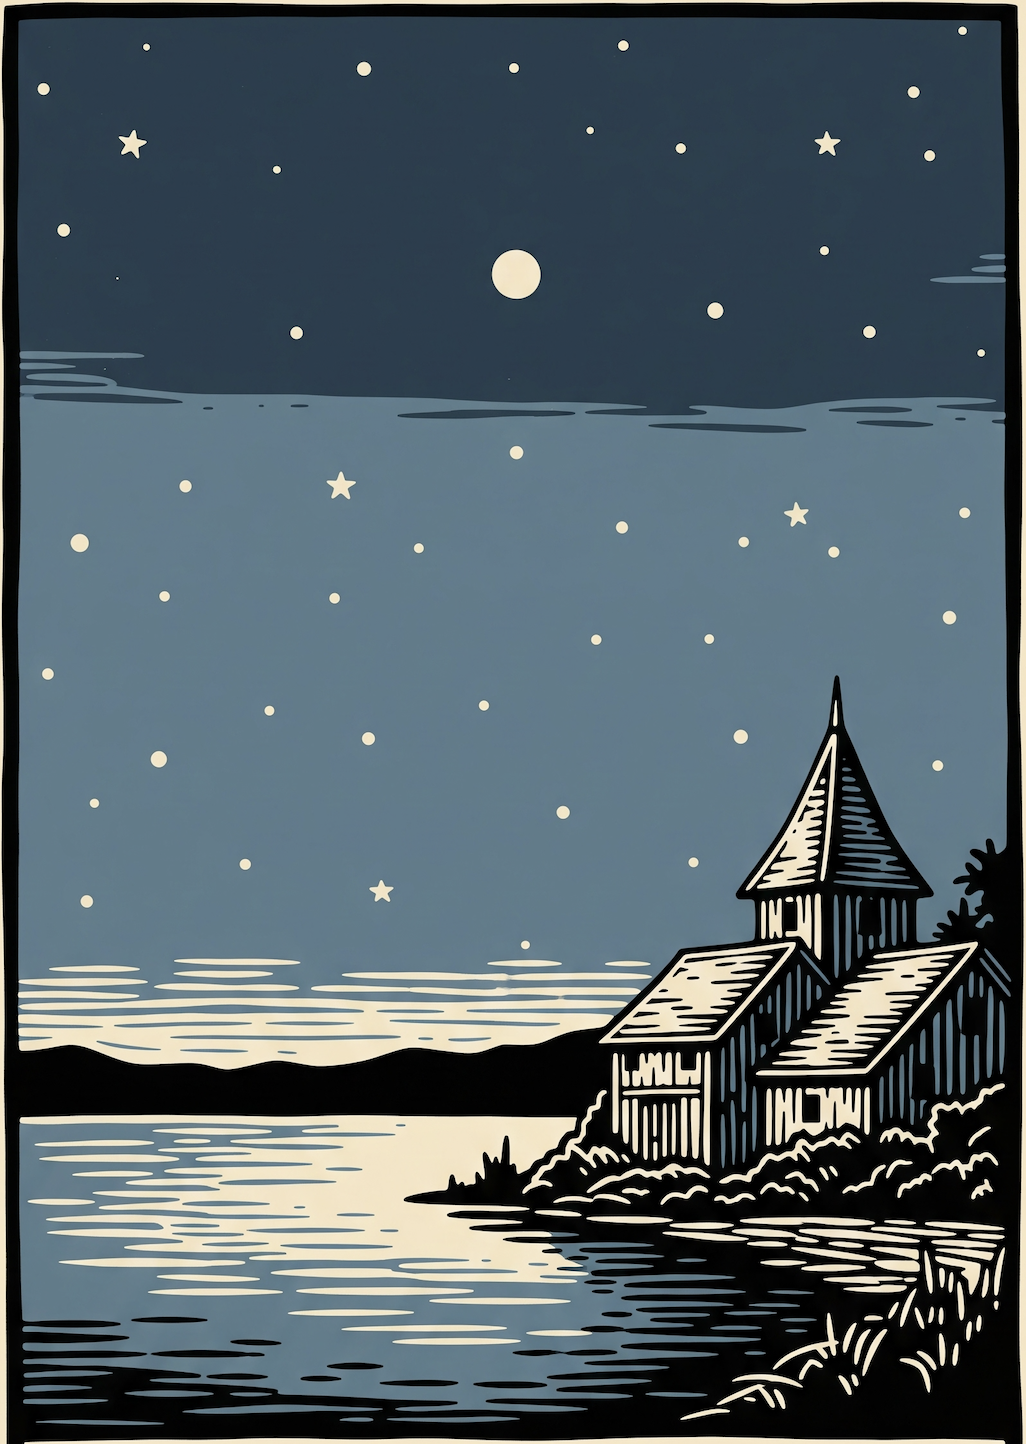
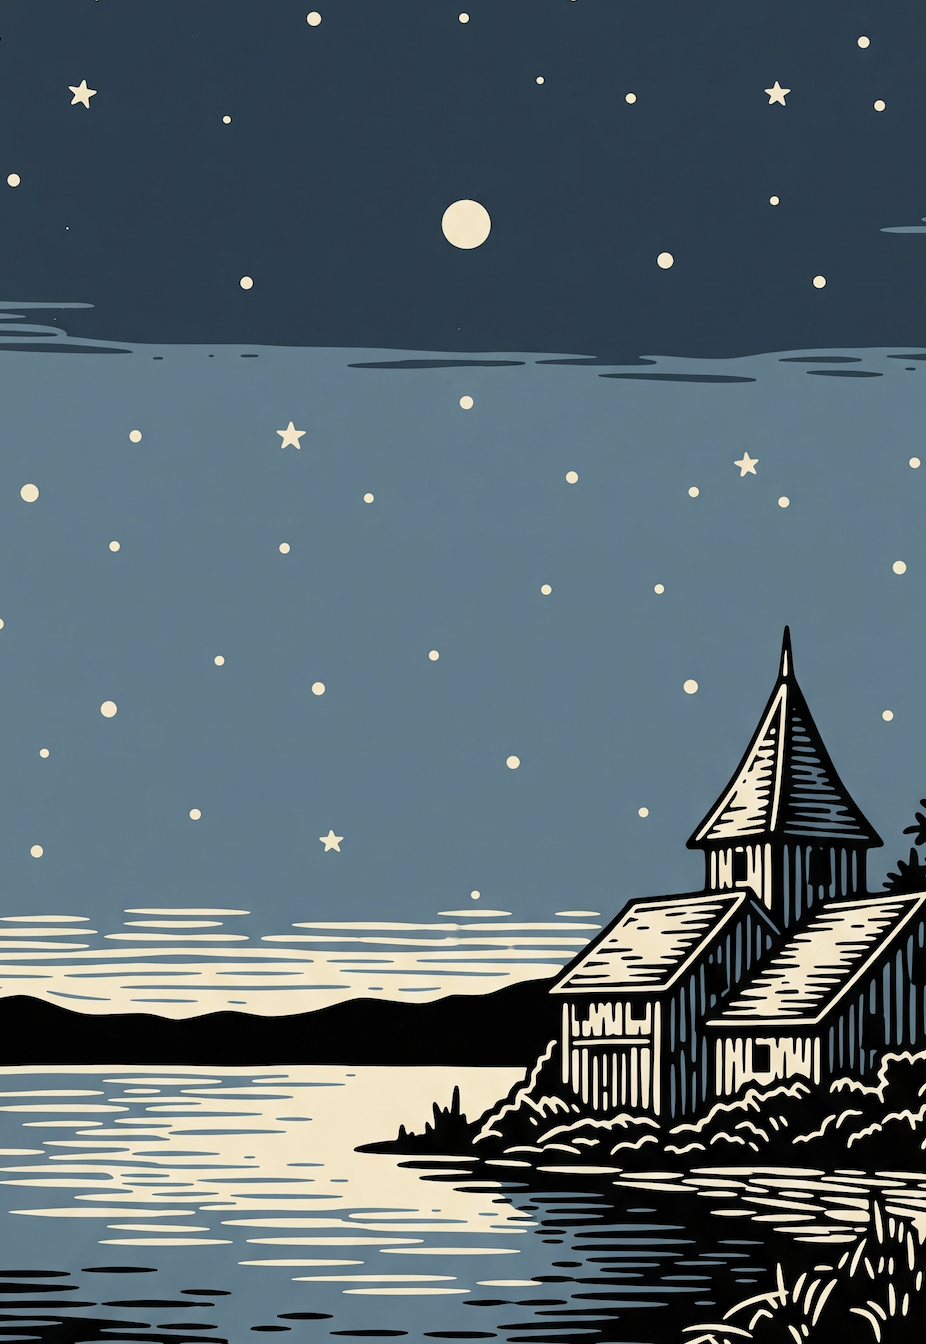
fix: new-moonとblood-moonの最終トリミング
- new-moon.png: 合計50px削除（30px + 20px）
- blood-moon.jpg: 合計45px削除（20px + 25px）

全17枚のタロットカード画像の余白削除を完全に完了

diff --git a/trim_final_two.py b/trim_final_two.py
@@ -1,0 +1,61 @@
+#!/usr/bin/env python3
+"""
+new-moonとblood-moonの最終トリミング
+"""
+
+from PIL import Image
+import os
+
+def trim_image(image_path, trim_pixels, is_png=False):
+    """
+    画像をトリミング
+    """
+    img = Image.open(image_path)
+    width, height = img.size
+    
+    filename = os.path.basename(image_path)
+    print(f"\n処理中: {filename}")
+    print(f"  元のサイズ: {img.size}")
+    
+    # トリミング
+    left = trim_pixels
+    top = trim_pixels
+    right = width - trim_pixels
+    bottom = height - trim_pixels
+    
+    if left < right and top < bottom:
+        cropped = img.crop((left, top, right, bottom))
+        
+        # 保存
+        if is_png:
+            cropped.save(image_path, 'PNG', optimize=True)
+        else:
+            cropped.save(image_path, 'JPEG', quality=95)
+        
+        print(f"  新しいサイズ: {cropped.size}")
+        print(f"  削減: {trim_pixels}ピクセル（全辺）")
+        return True
+    else:
+        print(f"  画像が小さすぎてトリミングできません")
+        return False
+
+def main():
+    """
+    new-moonとblood-moonを追加トリミング
+    """
+    base_dir = "/Users/shiraitouma/daniel/line-love-edu/public/images/tarot-cards"
+    
+    # new-moon.png - もう少しトリミング
+    new_moon_path = os.path.join(base_dir, "new-moon.png")
+    if os.path.exists(new_moon_path):
+        trim_image(new_moon_path, 20, is_png=True)  # 追加で20px
+    
+    # blood-moon.jpg - 白い端を削除
+    blood_moon_path = os.path.join(base_dir, "blood-moon.jpg")
+    if os.path.exists(blood_moon_path):
+        trim_image(blood_moon_path, 25, is_png=False)  # 追加で25px
+    
+    print("\n完了！")
+
+if __name__ == "__main__":
+    main()

diff --git a/trim_new_moon.py b/trim_new_moon.py
@@ -1,0 +1,55 @@
+#!/usr/bin/env python3
+"""
+new-moon.pngの余白をトリミング
+"""
+
+from PIL import Image
+import os
+
+def trim_new_moon():
+    """
+    new-moon.pngの余白をトリミング
+    """
+    image_path = "/Users/shiraitouma/daniel/line-love-edu/public/images/tarot-cards/new-moon.png"
+    
+    # 画像を開く
+    img = Image.open(image_path)
+    width, height = img.size
+    
+    print(f"処理中: new-moon.png")
+    print(f"  元のサイズ: {img.size}")
+    print(f"  モード: {img.mode}")
+    
+    # PNG画像なので透明度を考慮
+    if img.mode == 'RGBA':
+        # RGBAの場合、透明度チャンネルも考慮
+        img_rgba = img
+    else:
+        # RGBの場合はそのまま
+        img_rgba = img.convert('RGBA')
+    
+    # 余白をトリミング（30ピクセル削除）
+    trim_pixels = 30
+    left = trim_pixels
+    top = trim_pixels
+    right = width - trim_pixels
+    bottom = height - trim_pixels
+    
+    if left < right and top < bottom:
+        cropped = img_rgba.crop((left, top, right, bottom))
+        
+        # PNGとして保存
+        cropped.save(image_path, 'PNG', optimize=True)
+        
+        print(f"  新しいサイズ: {cropped.size}")
+        print(f"  削減: {trim_pixels}ピクセル（全辺）")
+        return True
+    else:
+        print(f"  画像が小さすぎてトリミングできません")
+        return False
+
+if __name__ == "__main__":
+    if trim_new_moon():
+        print("\n完了！ new-moon.pngをトリミングしました。")
+    else:
+        print("\nトリミングできませんでした。")
